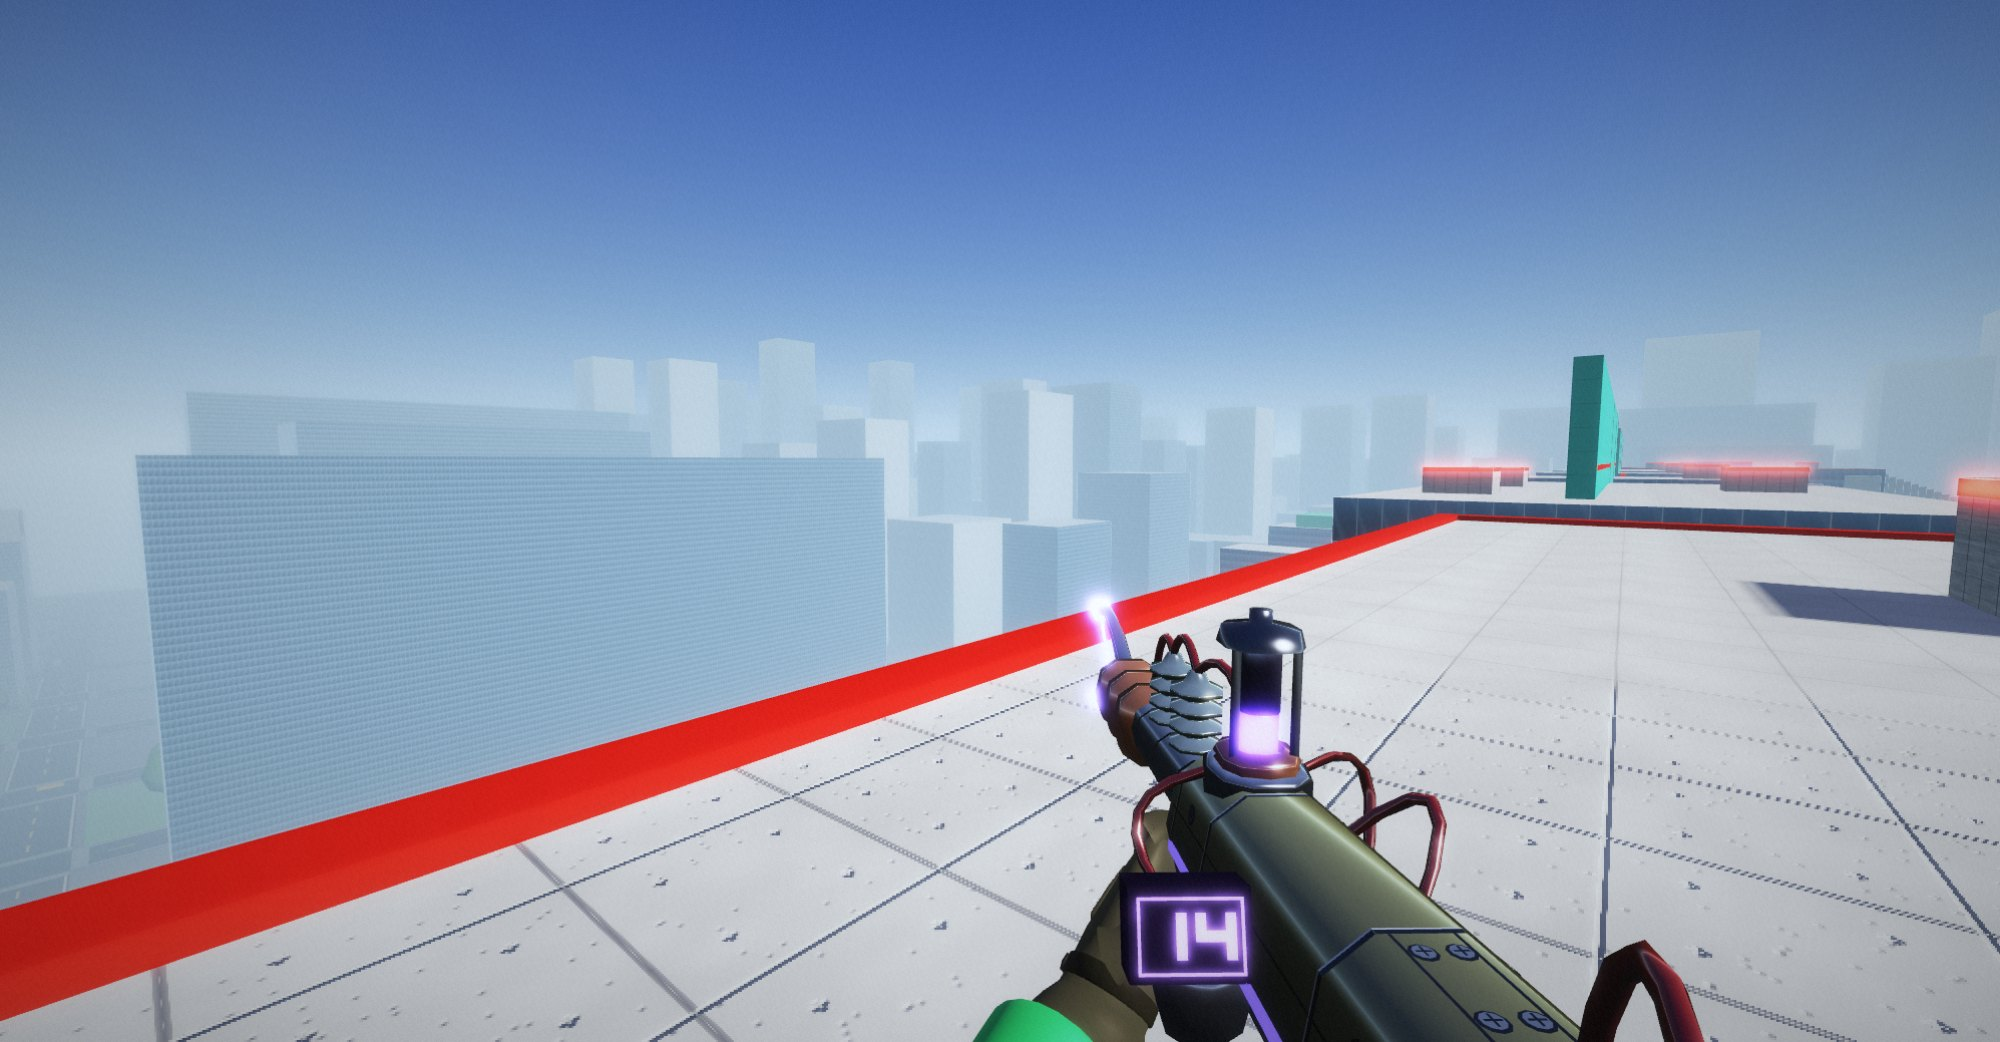
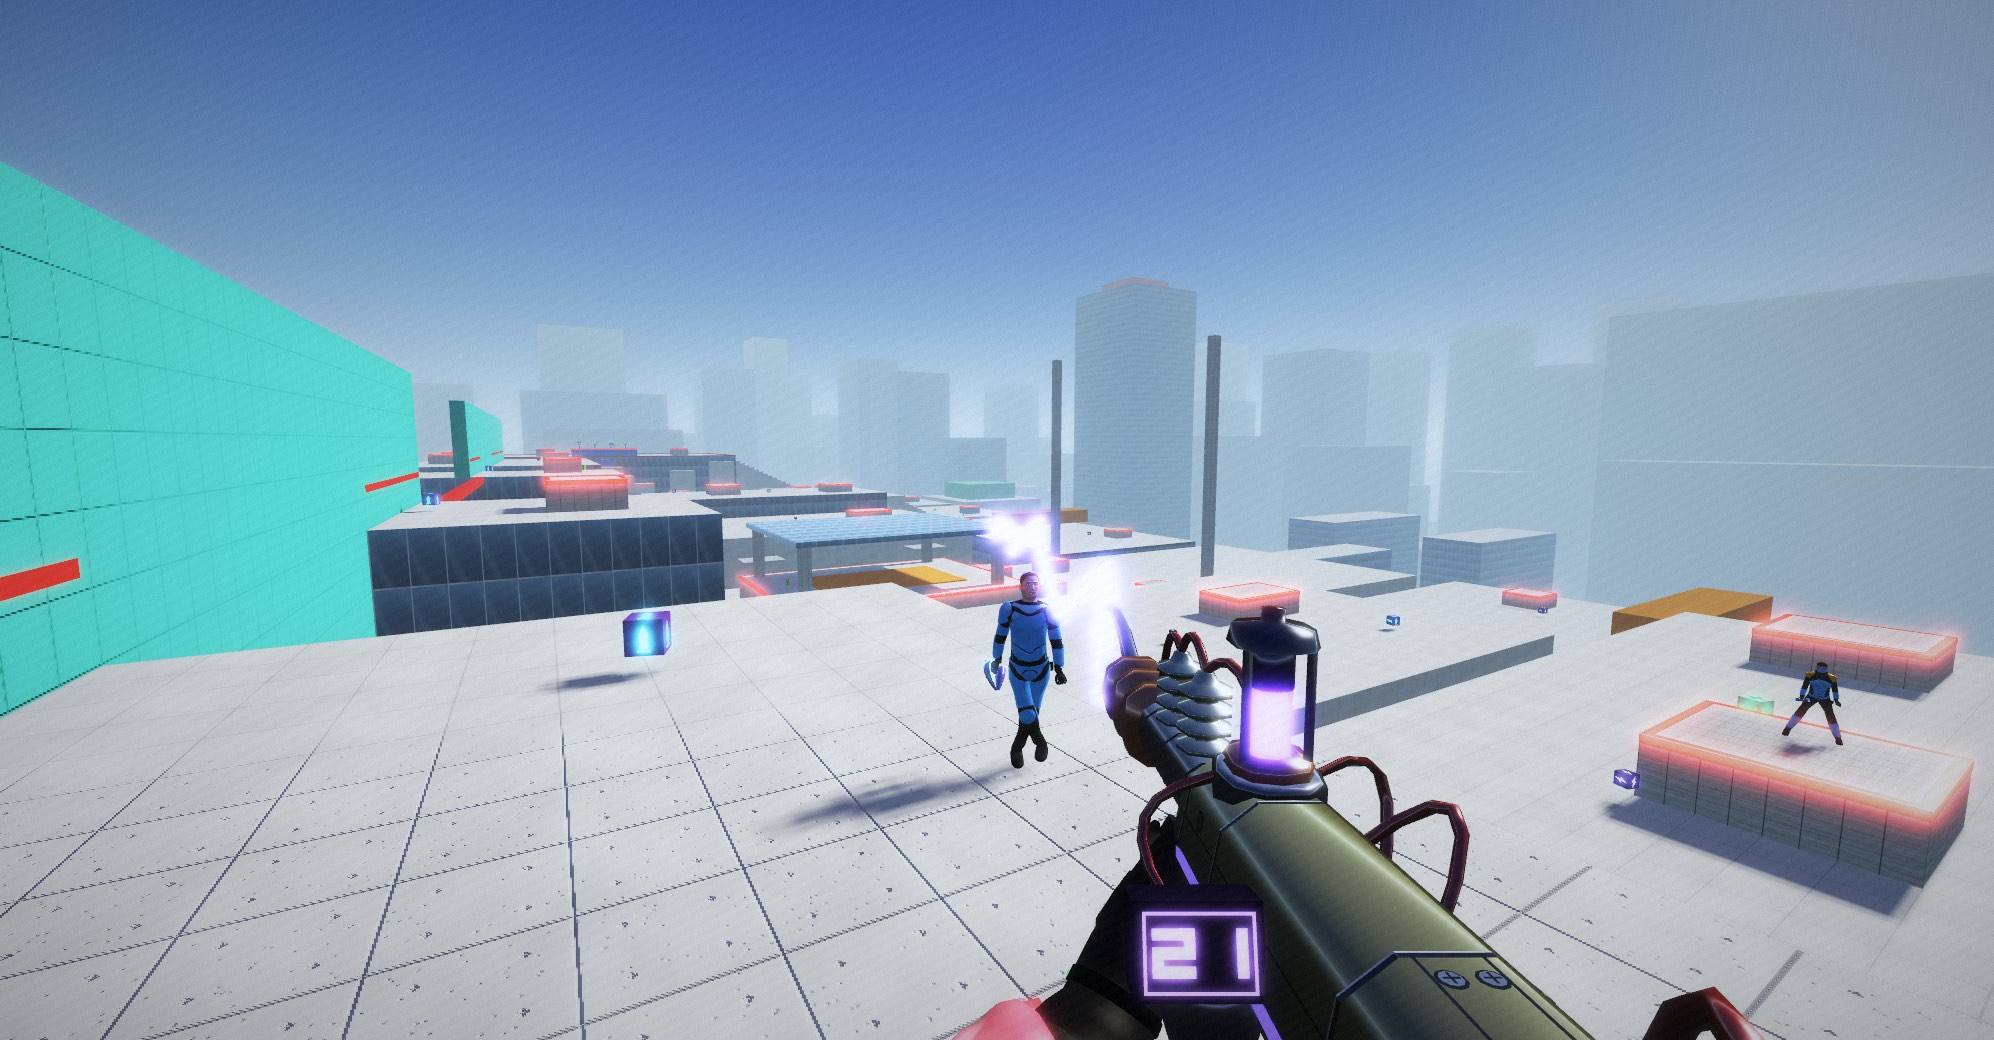
docs: fresh README screenshots, and a ship in orbit over the moon
The four weapon shots retaken on today's master, with enemies in view,
the rifle's on Tranquility; a new one of a combat ship in orbit. The
Tranquility paragraph names the combat ships and the orbit.

diff --git a/README.md b/README.md
@@ -14,13 +14,15 @@ A tiny multiplayer first-person game for the browser, written in TypeScript with
 
 It started as a co-op shooter inspired by carlini's [Yet Another Doom Clone](https://github.com/carlini/js13k2019-yet-another-doom-clone) (js13k 2019). Only the ideas were reused, not the code. The renderer, the netcode and the sound come from that first game.
 
-![The plasma gun and its counter over the edge of a Highline tower, the city, its parks and its streets far below](https://raw.githubusercontent.com/korial29/tiny-fps/master/docs/screenshot-gun.jpg)
+![A plasma ball flies from the gun toward two blue players on a Highline roof, a marine and a ninja who fire back](https://raw.githubusercontent.com/korial29/tiny-fps/master/docs/screenshot-gun.jpg)
 
-![The electric katana over the edge of a roof, looking down on the towers and the parks](https://raw.githubusercontent.com/korial29/tiny-fps/master/docs/screenshot-katana.jpg)
+|                                                                                                                                                                 |                                                                                                                                                          |
+| --------------------------------------------------------------------------------------------------------------------------------------------------------------- | -------------------------------------------------------------------------------------------------------------------------------------------------------- |
+| ![The electric katana lit in hand, a blue marine thrown back by the cut](https://raw.githubusercontent.com/korial29/tiny-fps/master/docs/screenshot-katana.jpg) | ![The rail gun's lightning striking a blue marine on the red tower](https://raw.githubusercontent.com/korial29/tiny-fps/master/docs/screenshot-rail.jpg) |
 
-|                                                                                                                                                                                |                                                                                                                                                 |
-| ------------------------------------------------------------------------------------------------------------------------------------------------------------------------------ | ----------------------------------------------------------------------------------------------------------------------------------------------- |
-| ![The rail gun on the red tower, its capsule glowing violet and its counter on its flank](https://raw.githubusercontent.com/korial29/tiny-fps/master/docs/screenshot-rail.jpg) | ![The laser rifle over the city, its counter on its back](https://raw.githubusercontent.com/korial29/tiny-fps/master/docs/screenshot-rifle.jpg) |
+![The laser rifle in an astronaut's glove on Tranquility, two blue astronauts by the dome, the Earth in the black sky](https://raw.githubusercontent.com/korial29/tiny-fps/master/docs/screenshot-rifle.jpg)
+
+![A red combat ship in orbit over the cratered globe of the moon, a blue ship ahead of it](https://raw.githubusercontent.com/korial29/tiny-fps/master/docs/screenshot-orbit.jpg)
 
 ## Framework-agnostic, light to add
 
@@ -209,7 +211,7 @@ The game is the movement and a capture the flag on top of it, with a tackle, a g
 - **Capture the flag**: touch the enemy flag, at its base or where it was dropped, to take it, and carry it to your own base while your own flag is there: that is a capture, and the flag goes home. Touch your own dropped flag to send it home at once; left alone it goes home after 10 seconds. A carrier who falls off the roofs or leaves drops it where he last stood. A tackled carrier drops it too, and it lies there for 2 seconds: nobody can send it home, and the carrier's teammates can grab it. There is a ring of light on each base, a marker toward each flag (and toward your base while you carry), a banner for each event and a sound for a take, a drop, a return and a capture.
 - **A match** ends at 3 captures or after 8 minutes, then everyone sees the result and each player's captures and returns for 10 seconds, and a new match starts with everyone back at their spawn, on the map the host picked.
 - **The map**: Highline, 94 by 240 m under an open sky, the same for both teams (the blue half is the mirror of the red one). Each team holds a 26 m tower with its flag and eight spawns. Three routes lead to the other tower, and they meet at the plaza in the middle. The **Spine** (west, 26 m) is the fast one, about 25 s by sprint: an 11 m gap that takes a dash or a double jump, a 17 m viaduct along a wall that takes a wall-run and a dash, a beam over the plaza. **Midtown** (centre, 19 to 21 m) is roofs, short gaps and ledges to grab, about 36 s. The **Lowline** (east, 14.5 m) is stairs, short gaps and a sign to slide under, about 39 s, and needs no special move. A miss costs time: roofs under the gaps and ladders of ledges lead back up, and only a fall into the street puts you back at your tower.
-- **Tranquility**, the moon map: an arena of 160 by 280 m in the middle of a crater 600 by 720 m across, under a black sky with the Earth and the stars, in a hard low sun. Gravity is half the Earth's, so a jump floats twice as high and twice as long, and everyone wears a space helmet with a glowing visor. Each team has a round dome with its flag in front, a landing pad with its shuttle, two modules joined by tubes, light masts and rovers. A rille cuts the middle: a bridge, a long jump on the west side, stepping stones on the east. Outside the arena the regolith rolls away in hills and craters to a wall nobody climbs past, with three ranges of mountains on the horizon all round behind it: the Bowl with a wrecked lander at its bottom, a long ridge to the east, an antenna array on a hill, a field of pebbles, and seven jump ramps marked by orange lamps. No ground is level for long: hummocks and shallow pans up to half a metre cover the floor outside the bases and the measured jumps. The arena's field is no longer flat: mounds up to 2.6 m roll between the bases and the rille and each half has a hollow 2 m deep. The rille wanders, its lips following a meander with bights up to 6.5 m under a rim of broken rock, its walls dropping in strata to a dark bottom; two mounds on each side ramp up to its lip, so a rover with a long run-up flies the 16 m gap. A few rounded boulders stand in the field and outside, cover you are stopped by where they are drawn; pebbles of three sizes lie strewn on the floor, thickest in clusters and round each boulder, and nothing collides with them. Thirty-one craters pit the crater floor, their rims outlined by a drawn band; three hold a pit 18 m deep, where a rover that drives in stays and its crew climbs out by the steps on the east wall. The regolith's texture does not repeat: the shader fetches its tile twice at offsets drawn from a noise and blends them, and darkens the slopes. Its tone varies by noise computed in the shader and, with distance, the tile fades to its mean colour, so far hills carry shading and no pattern. The ground is one lattice of heights for the physics and the drawing (`relief.ts`), so what you see is what you stand on. The bases are dressed from outside like a ship's hull: twelve dark spines up each dome to a collar round its aerial, traces of light up every other one, angled panel cuts between them, hatches and vents, round portholes, a dish and whip aerials on the module roofs, sensors and lamps over the airlocks, strips of light round each dome's foot and door, and lights in the ground leading to the doors. The dome's door and the modules' airlocks have automatic doors: two panels slide into the wall when a player or a driven rover comes near and shut a second after the last one leaves; a shut door stops shots and sight but never a body. Each base can be walked into: the dome holds a hall 40 m across under a 10.5 m roof, entered by a door facing the flag, with a mezzanine 3.5 m up along its walls (a health pack on its north balcony), stairs facing the door and crates for cover; two tubes run from the hall to the modules, each with an airlock to the outside, and the tube tops and module roofs are still walked on. Two rovers are parked at each base: E gets you in (the wheel first, else the seat beside it) and out. The rover goes where its driver looks, from a camera behind it: W and S are the throttle and the brake, Space the handbrake that swings the tail round, and above a jog the tyres let go and it drifts. It rides on four long, soft springs, flies close to two seconds off a ramp in the half gravity and levels out to land on its wheels. The driver's own weapons are put away and he cannot touch a flag, but the rover carries a laser on each side: holding the left button fires green bolts from both, seven salvos a second, that cross 50 m ahead where he looks and graze like the laser rifle's; the rider keeps his weapons and may carry one; a rover at speed runs enemies over. It is an open two-seat buggy of white panels and gold foil on a bare tube frame, with fenders in its team's colour, headlights and a trail of dust. Players and rovers pass through rovers, and nothing damages one.
+- **Tranquility**, the moon map: an arena of 160 by 280 m in the middle of a crater 600 by 720 m across, under a black sky with the Earth and the stars, in a hard low sun. Gravity is half the Earth's, so a jump floats twice as high and twice as long, and everyone wears a space helmet with a glowing visor. Each team has a round dome with its flag in front, a landing pad with its shuttle, two modules joined by tubes, light masts and rovers. A rille cuts the middle: a bridge, a long jump on the west side, stepping stones on the east. Outside the arena the regolith rolls away in hills and craters to a wall nobody climbs past, with three ranges of mountains on the horizon all round behind it: the Bowl with a wrecked lander at its bottom, a long ridge to the east, an antenna array on a hill, a field of pebbles, and seven jump ramps marked by orange lamps. No ground is level for long: hummocks and shallow pans up to half a metre cover the floor outside the bases and the measured jumps. The arena's field is no longer flat: mounds up to 2.6 m roll between the bases and the rille and each half has a hollow 2 m deep. The rille wanders, its lips following a meander with bights up to 6.5 m under a rim of broken rock, its walls dropping in strata to a dark bottom; two mounds on each side ramp up to its lip, so a rover with a long run-up flies the 16 m gap. A few rounded boulders stand in the field and outside, cover you are stopped by where they are drawn; pebbles of three sizes lie strewn on the floor, thickest in clusters and round each boulder, and nothing collides with them. Thirty-one craters pit the crater floor, their rims outlined by a drawn band; three hold a pit 18 m deep, where a rover that drives in stays and its crew climbs out by the steps on the east wall. The regolith's texture does not repeat: the shader fetches its tile twice at offsets drawn from a noise and blends them, and darkens the slopes. Its tone varies by noise computed in the shader and, with distance, the tile fades to its mean colour, so far hills carry shading and no pattern. The ground is one lattice of heights for the physics and the drawing (`relief.ts`), so what you see is what you stand on. The bases are dressed from outside like a ship's hull: twelve dark spines up each dome to a collar round its aerial, traces of light up every other one, angled panel cuts between them, hatches and vents, round portholes, a dish and whip aerials on the module roofs, sensors and lamps over the airlocks, strips of light round each dome's foot and door, and lights in the ground leading to the doors. The dome's door and the modules' airlocks have automatic doors: two panels slide into the wall when a player or a driven rover comes near and shut a second after the last one leaves; a shut door stops shots and sight but never a body. Each base can be walked into: the dome holds a hall 40 m across under a 10.5 m roof, entered by a door facing the flag, with a mezzanine 3.5 m up along its walls (a health pack on its north balcony), stairs facing the door and crates for cover; two tubes run from the hall to the modules, each with an airlock to the outside, and the tube tops and module roofs are still walked on. Two rovers are parked at each base: E gets you in (the wheel first, else the seat beside it) and out. The rover goes where its driver looks, from a camera behind it: W and S are the throttle and the brake, Space the handbrake that swings the tail round, and above a jog the tyres let go and it drifts. It rides on four long, soft springs, flies close to two seconds off a ramp in the half gravity and levels out to land on its wheels. The driver's own weapons are put away and he cannot touch a flag, but the rover carries a laser on each side: holding the left button fires green bolts from both, seven salvos a second, that cross 50 m ahead where he looks and graze like the laser rifle's; the rider keeps his weapons and may carry one; a rover at speed runs enemies over. It is an open two-seat buggy of white panels and gold foil on a bare tube frame, with fenders in its team's colour, headlights and a trail of dust. Players and rovers pass through rovers, and nothing damages one. A combat ship waits on each landing pad, armed with lasers and missiles: E boards it, and it climbs out of the crater into orbit, where the ships fight over the globe of the moon ([`docs/MOON.md`](docs/MOON.md)).
 - **Weapons**: each team's armoury is a plinth 1.5 m high past its flag, in sight of the spawns, with a gun rack, a katana rack, a rail gun rack and a laser rifle rack: run and jump up to take them. You spawn with none and carry each once taken. The first time a weapon comes to hand you switch it on, each its own way: the right thumb presses the plasma gun's button and the katana's, the left index the laser rifle's, the left hand turns the rail gun's capsule; it lights up with its sound. Drawn again, or after a swap, it lights up at once.
   - The **plasma gun** holds 60 shots, 15 at a time in a battery in its grip: an empty one, or R, swaps it in 1.3 s, the gun dark until the new one is in: the spent battery falls to the floor, the left hand takes a new one out of a pouch on the hip and puts it in, a pause, a slap of the palm, a jolt and the gun back in aim. A click fires a plasma ball at 40 m/s that bursts on the first wall or enemy it touches, and the view kicks up with each one. Held, the button charges the next ball, with a rising whine and the gun shaking, shown by a gauge under the ammo counter, and letting go fires it: up to 5 shots' worth in one second, which takes 5 health and puts any enemy down.
   - The **electric katana** needs no ammo; its whole blade lights up when it is switched on. A cut takes 2 to 4 health by the cut, reaches 2.2 to 3.2 m, and shocks a foe it does not put down: a short stumble the way the blade goes. A cut that puts a foe down takes off the limb the blade crosses, head, arm or leg, drawn only, with no blood.
